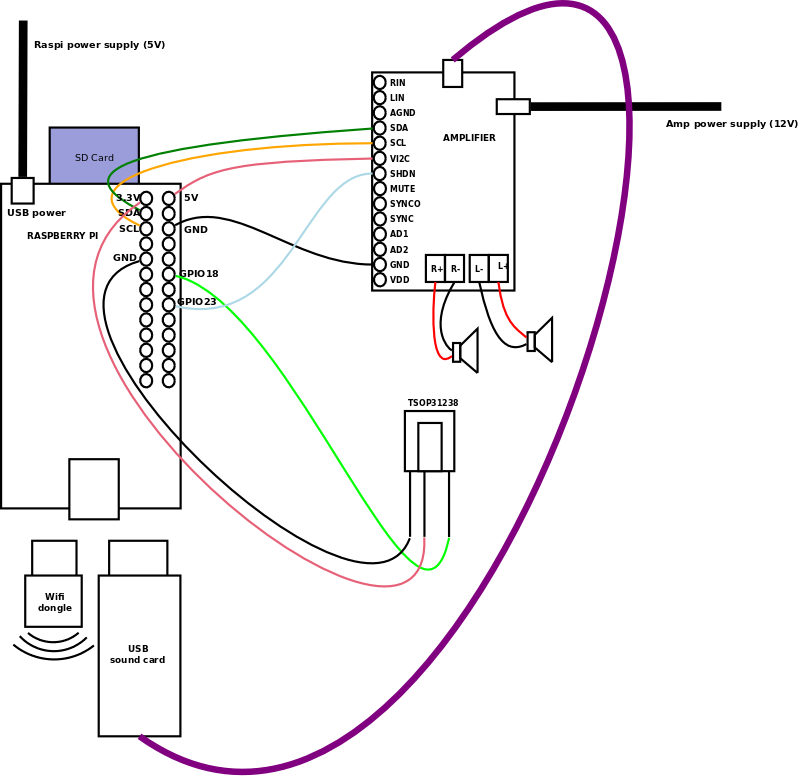
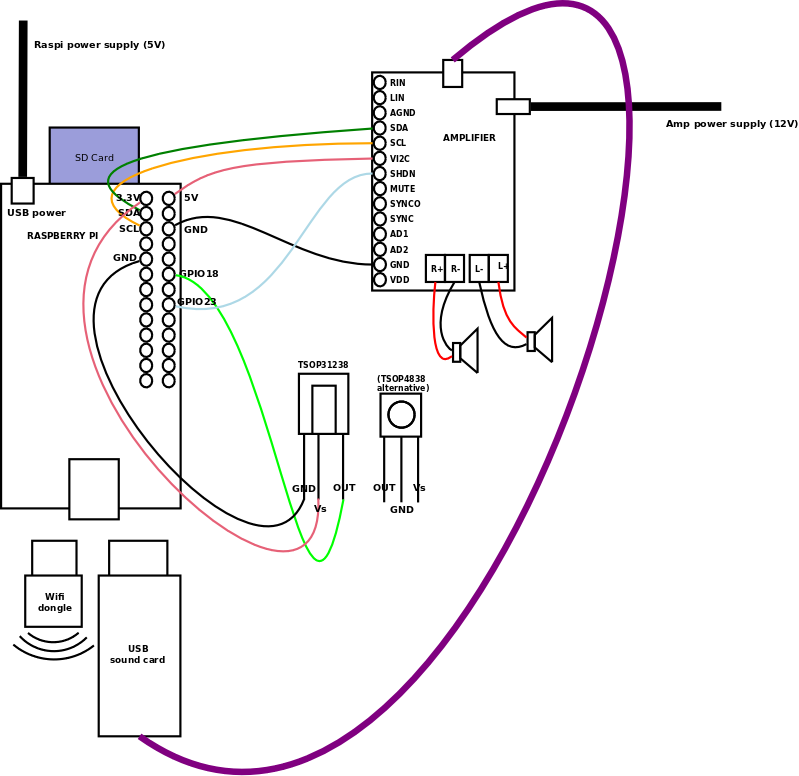
Added instructions to share USB DAC audio output between programs

Changed region(s): [[0.0901, 0.2784, 0.5707, 0.7732]]

diff --git a/pages/MultiRoomHomeAudio/index.html b/pages/MultiRoomHomeAudio/index.html
@@ -194,7 +194,7 @@ sudo chmod a+x /usr/bin/squeezelite-armv6hf</code></pre>
   default:CARD=ALSA              - bcm2835 ALSA, bcm2835 ALSA - Default Audio Device
   sysdefault:CARD=ALSA           - bcm2835 ALSA, bcm2835 ALSA - Default Audio Device</code></pre>
 
-<p>The <code>bcm2835</code> entries correspond to the raspiberry pi internal audio. In my case, the audio output from the USB sound card corresponds to <code>front:CARD=Set,DEV=0</code><br /><br /></p>
+<p>The <code>bcm2835</code> entries correspond to the raspberry pi internal audio. In my case, the audio output from the USB sound card corresponds to <code>front:CARD=Set,DEV=0</code><br /><br /></p>
 
 <p>Let&#8217;s now make squeezelite start automatically at boot as a daemon. <a href='http://www.gerrelt.nl/RaspberryPi/squeezelitehf.sh'>Gerrelt&#8217;s script</a> will do fine.<br /><br /></p>
 
@@ -215,6 +215,55 @@ sudo chmod a+x /etc/init.d/squeezelite
 sudo update-rc.d squeezelite defaults</code></pre>
 
 <p>At the next reboot, squeezelite client will be running in the background, ready to play music.</p>
+
+<h4 id='sharing_the_usb_card_audio_output_optional'>Sharing the USB card audio output (optional)</h4>
+
+<p>One problem I encountered is that once squeezelite is configured this way, it will prevent any other service from using the same USB audio output. This has nothing to do with squeezelite itself, but with the ALSA sound library configuration. It may or may not be a limitation depending on the intended usage, and for this particular project alone this is not a problem, but since I wanted to host other services using audio on the same raspberry pi (e.g. <a href='http://jheyman.github.io/blog/pages/GoogleCalendarAudioNotifier'>GoogleCalendarAudioNotifier</a>), I had to address this. To solve this issue, it is necessary to configure ALSA for sharing the sound output device, and this is achieved by activating the <code>dmix</code> plugin that will then combine the audio channels from different services/programs into a single audio output.<br /><br /></p>
+
+<p>The configuration is two-fold, the first part consists in a custom ALSA configuration file, to be put in file <code>/etc/asound.conf</code>:</p>
+
+<pre><code>pcm.dmixer {
+    type dmix
+    ipc_key 1024
+    ipc_key_add_uid false
+    ipc_perm 0666
+    slave {
+        pcm &quot;hw:0,0&quot;
+        period_time 0
+        period_size 1024
+        buffer_size 8192
+        rate 44100
+    }
+
+    bindings {
+        0 0
+        1 1
+     }
+}
+
+pcm.dsp0 {
+    type plug
+    slave.pcm &quot;dmixer&quot;
+}
+
+pcm.!default {
+    type plug
+    slave.pcm &quot;dmixer&quot;
+}
+
+pcm.default {
+    type plug
+    slave.pcm &quot;dmixer&quot;
+}
+
+ctl.mixer0 {
+    type hw
+    card 0
+}</code></pre>
+
+<p>This piece of configuration tells alsa to declare a &#8220;dmixer&#8221; device leveraging the dmix plugin, and to set it as the default device for audio output. The second part then consists in modifying the squeezelite configuration itself (<code>/etc/init.d/squeezelite</code>) to modify the SL_SOUNDCARD parameter:</p>
+
+<pre><code>SL_SOUNDCARD=&quot;default&quot; </code></pre>
 
 <h4 id='i2c_setup'>I2C setup</h4>
 
@@ -316,7 +365,7 @@ LIRCMD_CONF=&quot;&quot;</code></pre>
 <ul>
 <li>To amplifier: GND, VI2C, SDA and SCL are the required connections for I2C communication with the amplifier to digitally adjust gain/volume. In addition, the SHDN (Shutdown) pin of the amplifier is connected to one of the pi&#8217;s GPIO, so as to be able to disable the amplifier when not used.</li>
 
-<li>To TSOP IR receiver: GND, VCC, and SIGNAL (connected to the pi&#8217;s GPIO #18, as configured in LIRC)<br /><br /></li>
+<li>To TSOP IR receiver: GND, VCC, and SIGNAL (connected to the pi&#8217;s GPIO #18, as configured in LIRC). I also successfully tested this setup using TSOP4838, taking into account its specific pinout.<br /><br /></li>
 </ul>
 
 <p>Here is a work-in-progress view:</p>
@@ -528,9 +577,11 @@ sudo python setup.py install</code></pre>
 
 <h3 id='automate_launch_at_pi_startup'>Automate launch at Pi startup</h3>
 
-<p>Once everything worked as expected, I proceeded with automating the execution of the audio controller script at startup. I chose to turn it into a background service/daemon, using <a href='http://blog.scphillips.com/2013/07/getting-a-python-script-to-run-in-the-background-as-a-service-on-boot/'>these</a> great instructions. My version is available <a href='https://github.com/jheyman/multiroomhomeaudio/blob/master/client_side/audiocontroller.sh'>here</a>, I just added the <code>--chdir</code> option in the <code>start-stop-daemon</code> command to set the working directory of the service to be the one the script and its associated files are stored in, so that no absolute paths need to be specified inside the script. Just copy this script to <code>/etc/init.d</code>, make sure it has execution rights, then add activate this service using:</p>
+<p>Once everything worked as expected, I proceeded with automating the execution of the audio controller script at startup. I chose to turn it into a background service/daemon, using <a href='http://blog.scphillips.com/2013/07/getting-a-python-script-to-run-in-the-background-as-a-service-on-boot/'>these</a> great instructions. My version is available <a href='https://github.com/jheyman/multiroomhomeaudio/blob/master/client_side/audiocontroller.sh'>here</a>, I just added the <code>--chdir</code> option in the <code>start-stop-daemon</code> command to set the working directory of the service to be the one the script and its associated files are stored in, so that no absolute paths need to be specified inside the script. Just copy this script to <code>/etc/init.d</code>, make sure it has execution rights, then add activate this service:</p>
 
-<pre><code>sudo update-rc.d audiocontroller.sh defaults</code></pre>
+<pre><code>sudo cp audiocontroller.sh /etc/init.d/audiocontroller.sh
+sudo chmod a+x /etc/init.d/audiocontroller.sh
+sudo update-rc.d audiocontroller.sh defaults</code></pre>
 
 <p>Reboot the pi: traces of the successful execution of the audio controller script should be visible in <code>/tmp/audiocontroller.log</code> file.<br /><br /></p>
 

diff --git a/pages/GoogleCalendarAudioNotifier/index.html b/pages/GoogleCalendarAudioNotifier/index.html
@@ -67,7 +67,9 @@
 
 <p>3) Use <code>raspi-config</code> to configure the raspberry as required (e.g. keyboard layout). Specifically for this project, don&#8217;t forget to set the correct time zone (In <code>Internationalization options</code> =&gt; select appropriate area and city)</p>
 
-<p>4) Plug wi-fi dongle, boot to graphical environment, configure wifi settings.</p>
+<p>4) Plug wi-fi dongle, boot to graphical environment, configure wifi settings.<br /><br /></p>
+
+<p>The required configuration steps for the audio part are described in <a href='http://jheyman.github.io/blog/pages/GoogleCalendarAudioNotifier'>this project</a>, especially the ALSA configuration required to be able to use a single audio output for both these calendar notifications, other audio services.</p>
 
 <h3 id='setting_up_the_google_calendar_api'>Setting up the Google (calendar) API</h3>
 
